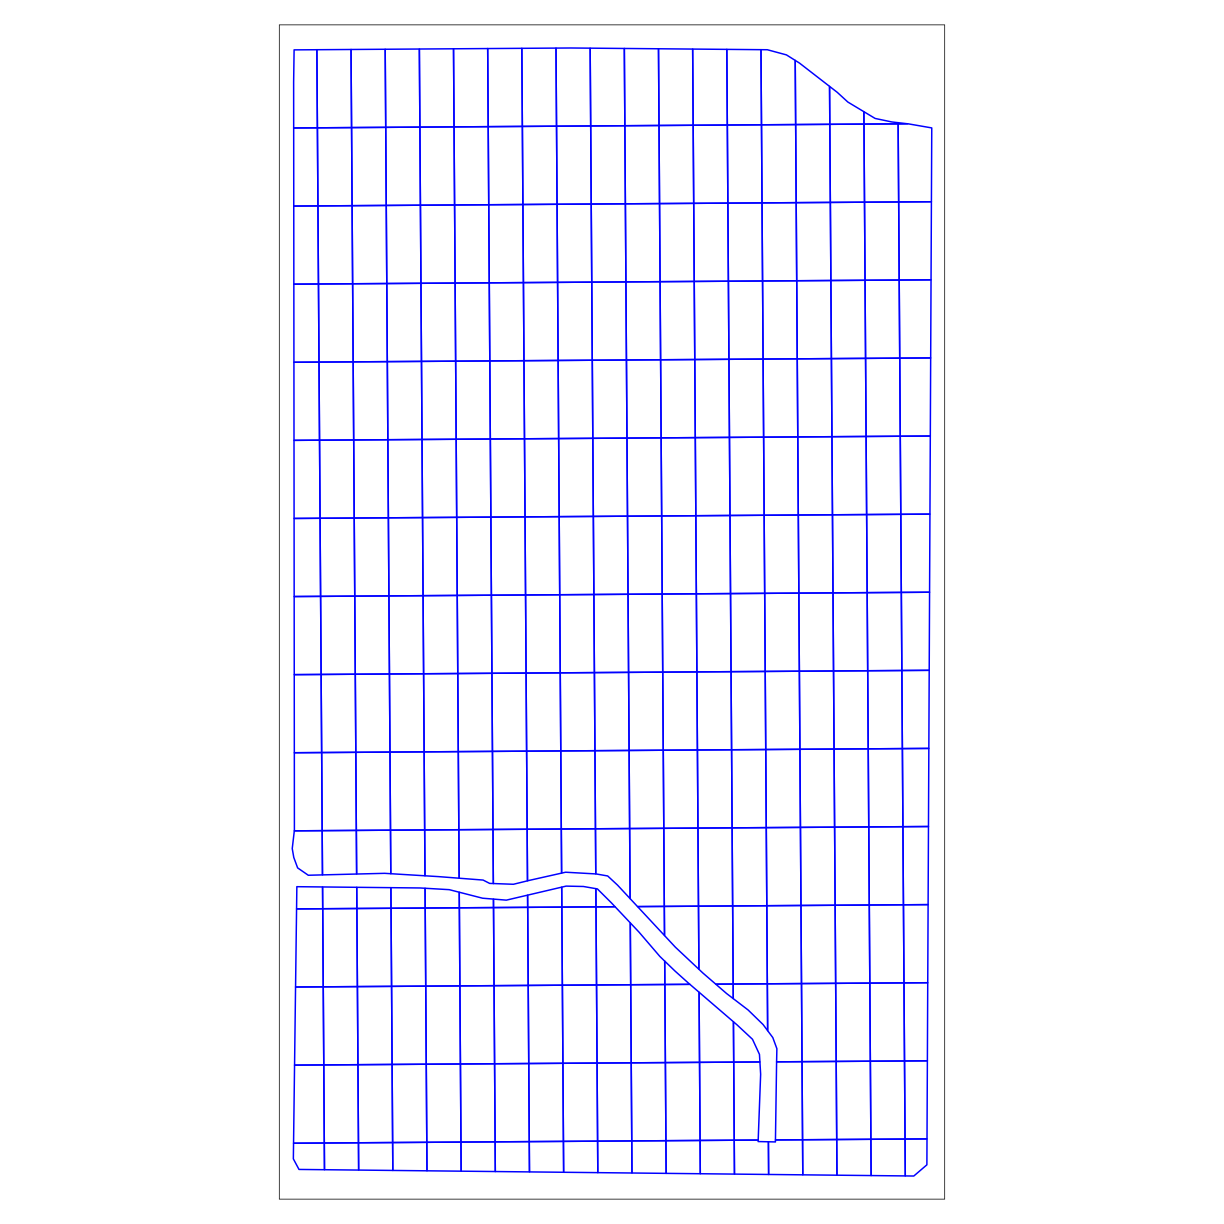
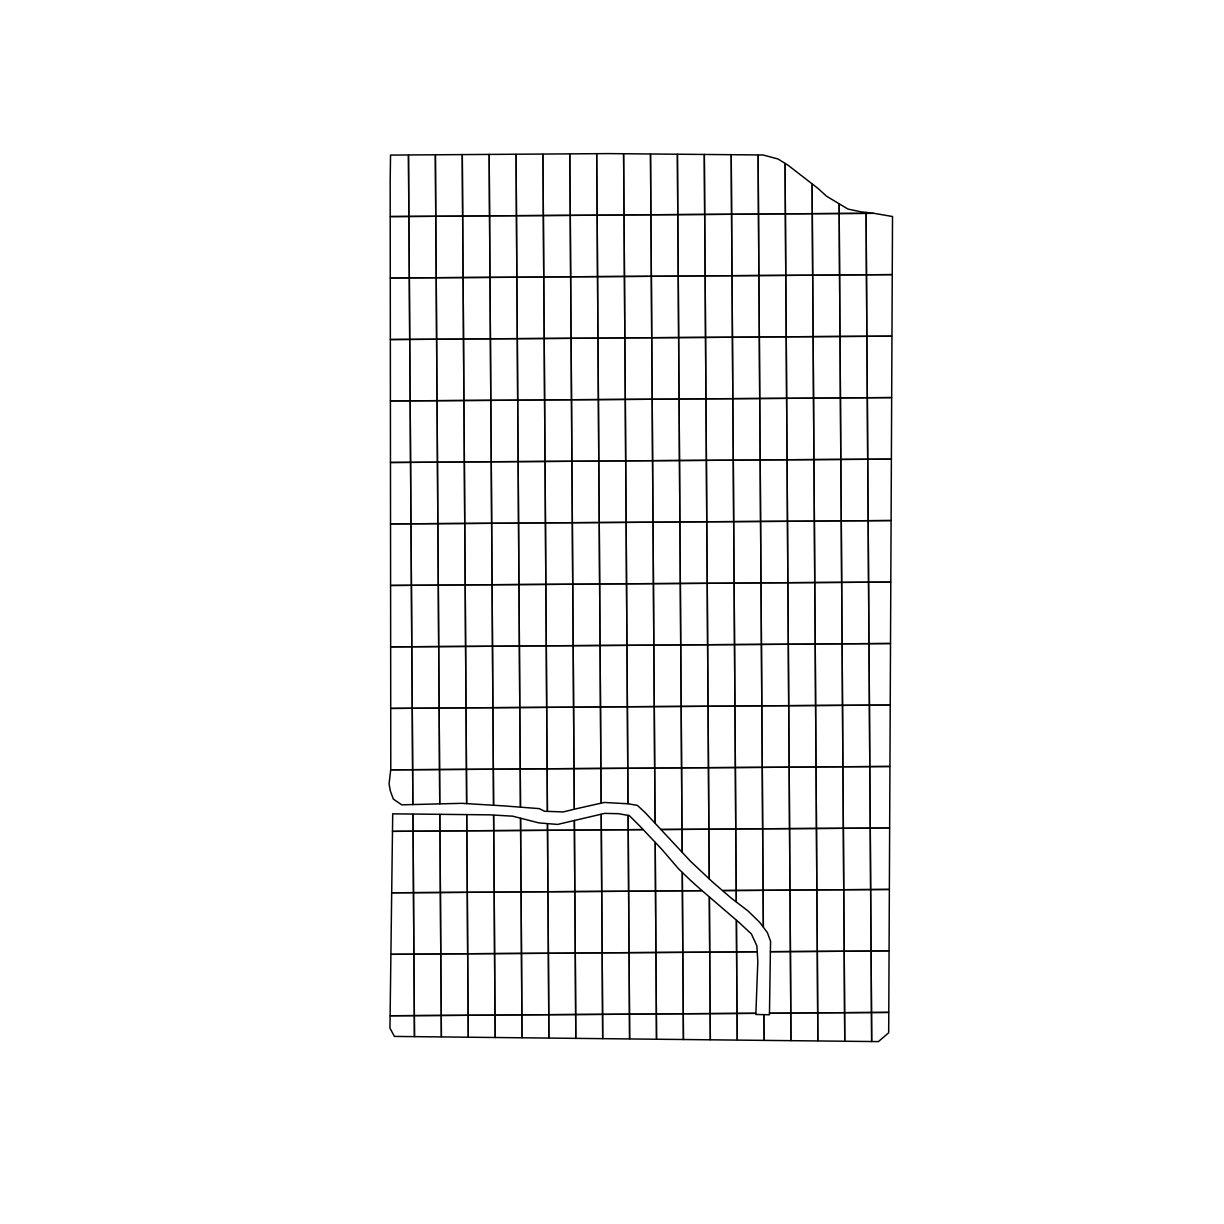
plot geom

Changed region(s): [[0.2173, 0.031, 0.7761, 0.9624], [0.4967, 0.031, 0.5588, 0.0621], [0.2794, 0.031, 0.3105, 0.0621]]

diff --git a/_episodes/05-Trial-Design.md b/_episodes/05-Trial-Design.md
@@ -149,7 +149,7 @@ source: Rmd
 > Let's check out what our trial subplots look like:
 > 
 > ~~~
-> tm_shape(trial_grid) + tm_borders(col='blue')
+> plot(trial_grid$geom)
 > ~~~
 > {: .language-r}
 > 
